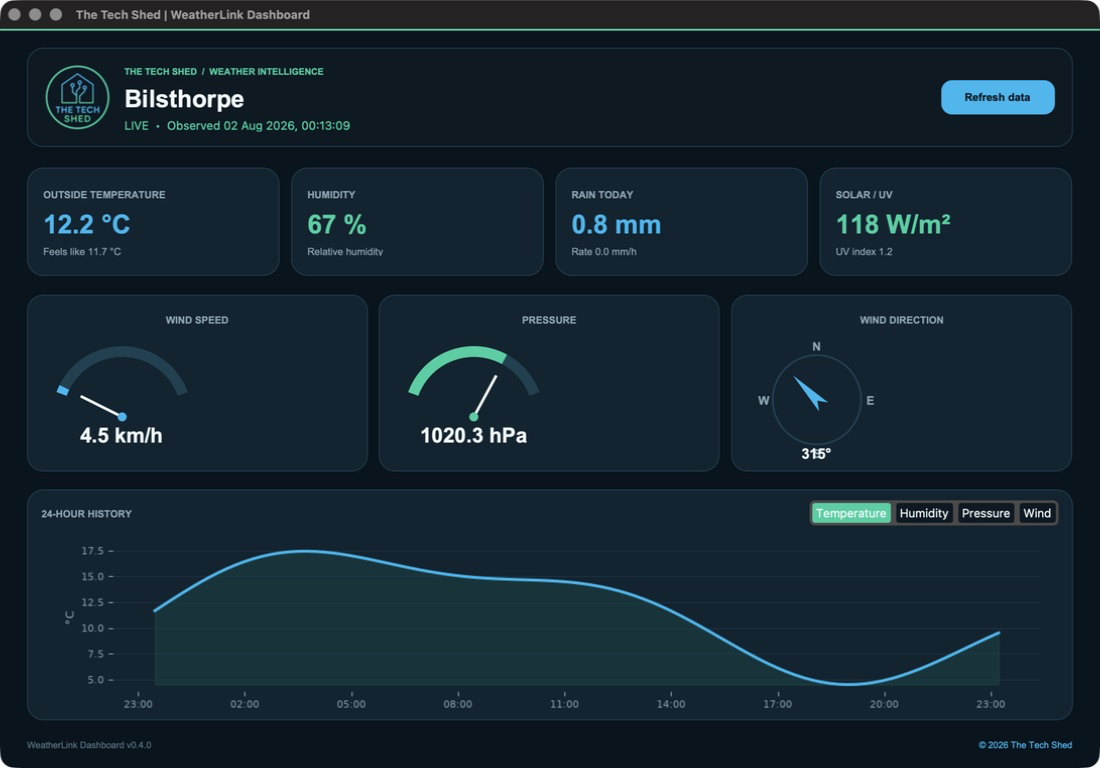
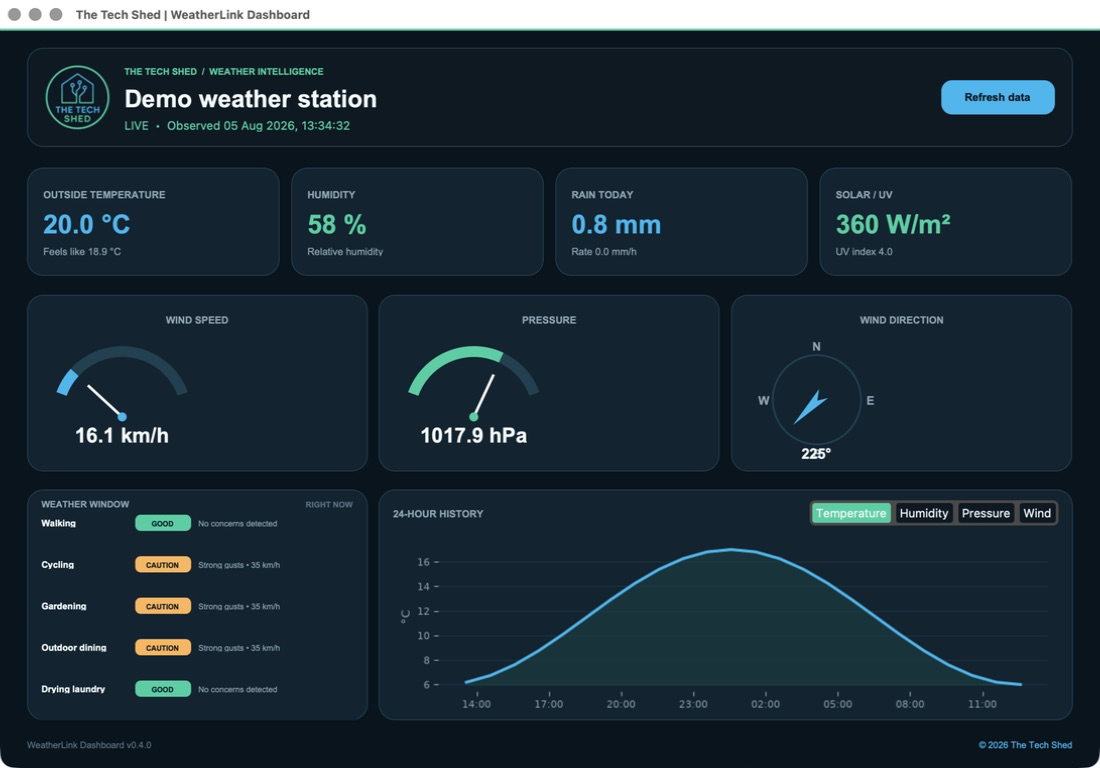
Update Weather Window documentation

diff --git a/README.md b/README.md
@@ -6,7 +6,9 @@ Branded for **The Tech Shed** using its original cyan, teal, and deep-navy visua
 
 ![Python](https://img.shields.io/badge/Python-3.10%2B-3776AB) ![License](https://img.shields.io/badge/license-MIT-22C55E)
 
-![The Tech Shed WeatherLink Dashboard showing live weather cards, gauges, a wind compass, and a 24-hour temperature chart](docs/images/weatherlink-dashboard.png)
+![The Tech Shed WeatherLink Dashboard showing weather cards, gauges, a wind compass, Weather Window activity guidance, and a 24-hour temperature chart](docs/images/weatherlink-dashboard.png)
+
+*Screenshot uses synthetic demonstration observations; it contains no WeatherLink credentials or real station location.*
 
 ## Features
 
@@ -22,6 +24,31 @@ Branded for **The Tech Shed** using its original cyan, teal, and deep-navy visua
 - Credentials loaded only from a local `.env` file, which Git ignores
 - Installed version and a clickable The Tech Shed repository link in the dashboard footer
 - Packaged The Tech Shed logo, window icon, and cohesive professional brand theme
+
+## Weather Window
+
+Weather Window translates the latest station observations into practical guidance for five common outdoor activities. Each row shows a text-labelled status and the most important current concern, so the result does not depend on colour alone.
+
+![Weather Window showing caution and avoid states caused by rain](docs/images/weather-window.png)
+
+| Activity | Observations considered |
+| --- | --- |
+| Walking | Rain rate, strongest wind reading, feels-like temperature, and UV |
+| Cycling | Rain, gusts, temperature, and UV with more conservative wind limits |
+| Gardening | Rain, gusts, temperature, and UV exposure |
+| Outdoor dining | Rain, gusts, feels-like temperature, and UV |
+| Drying laundry | Rain, gusts, humidity, and solar radiation |
+
+The status is determined by the highest-severity concern detected:
+
+| Status | Meaning |
+| --- | --- |
+| **Good** | No concerns were found in the available current readings. |
+| **Caution** | At least one reading may make the activity less comfortable or practical. |
+| **Avoid** | At least one reading has crossed the activity's more conservative limit. |
+| **Waiting** | Relevant readings are unavailable or the observations are more than 30 minutes old. |
+
+Weather Window uses current local observations only. It is practical guidance rather than a forecast, and conditions can change between dashboard refreshes.
 
 ## Setup
 
@@ -159,8 +186,6 @@ ruff check .
 ```
 
 Sensor models expose slightly different WeatherLink field names. The normalizer deliberately supports common WeatherLink Live, Console, EnviroMonitor, WeatherLinkIP, and Vantage Connect variants. Contributions with sanitized sample payloads are welcome.
-
-Weather Window ratings use only the latest station observations; they are practical guidance, not a forecast. The panel shows the most important current concern for each activity, changes to an unavailable state when all relevant readings are missing, and suspends guidance when observations are more than 30 minutes old.
 
 ## License
 

diff --git a/CHANGELOG.md b/CHANGELOG.md
@@ -10,6 +10,11 @@ All notable changes to this project will be documented here. The format follows 
 - Activity-specific rain, gust, temperature, humidity, solar, and UV rules with metric and imperial explanations.
 - Unavailable and stale-observation states so incomplete data is never presented as current guidance.
 
+### Documentation
+
+- Expanded the Weather Window guide with status and activity-input references.
+- Replaced the dashboard image and added a focused alert-state screenshot using synthetic observations.
+
 ## [0.4.0] - 2026-08-01
 
 ### Added
